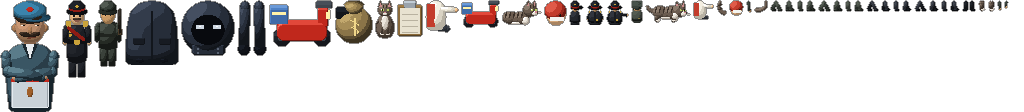
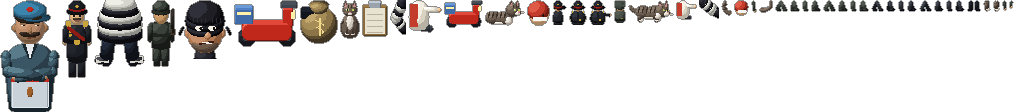
Hırsız yeniden modellendi: bere, göz maskesi, çizgili kazak, çuval
Eskisi yüzü kara boşluk, iki parlak gözlü kukuletalı bir yumruydu (hayalet
gibi). Şimdi örgü bere, göz delikli siyah maske + yana bakan gözler, sakal
gölgesi + sırıtış, siyah-beyaz çizgili kazak, koyu pantolon, sinsi adım,
eldivenler; sağ el çuvalın ağzını tutar. Parça adları/çapalar aynı.

Changed region(s): [[0.0938, 0.0, 1.0, 0.6161]]

diff --git a/blender/models/olay_hd.py b/blender/models/olay_hd.py
@@ -167,40 +167,97 @@ def pelerin_malz():
     return I.cel("Pelerin", [hexmul(C0, 0.8), C0, C1, C2, C3], [0, .18, .4, .7, .92], noise=0.06, noise_scale=10)
 
 
+# BIRLESIK (4. tur, kullanici: "hirsiz modellemesi cok zayif"). Eskiden
+# yuzu kara bosluk, iki parlak gozlu kukuletali bir yumru (hayalet gibi).
+# Simdi klasik hirsiz: siyah orgu bere, gozleri acik siyah maske, yana bakan
+# kurnaz gozler, sakal golgesi + sirit, siyah-beyaz cizgili kazak, koyu
+# pantolon, sinsi adim, eldivenler; sag el cuvalin agzini tutar.
+# Parca adlari ve capalar ayni (oyun kodu degismez).
+HT_TEN = "#c8906a"
+
+
+def _cizgili(i):
+    return I.cel("Kazak%d" % (i % 2), ["#0c0c10", "#16161c", "#22222a", "#34343e"] if i % 2 == 0 else
+                 ["#8e8e88", "#b8b8b0", "#d6d6ce", "#eeeee6"], [0, .3, .6, .88])
+
+
 def hirsiz_govde():
-    Mp = pelerin_malz()
-    T.torna("pelerin", [(13.2, 0), (13.0, 8), (12.2, 18), (10.8, 24), (7.0, 28), (2.0, 29.6)], 0.5, 1.0, 1.0, 0.45, Mp, K, seg=28)
-    on_levha([(0.1, -24), (0.9, -24), (0.9, 0), (0.1, 0)], -5.4, mat_duz("#12161c"))
-    for sx in (-6.0, 7.0):                              # cep kapaklari
-        kutu(sx - 3, sx + 3, -10.5, -7.0, -5.8, -5.0, c3(C0, f=(0.7, 0.9, 1.0, 1.4)), bevel=0.4)
-    # ayaklar
-    for sx in (-5.0, 6.0):
-        elipsoid(sx, 0.2, 3.0, 1.4, 2.0, -3.0, c3("#0f1218", f=(0.8, 1.0, 1.0, 1.8)), seg=10, ring=6)
+    # pantolon + bacaklar (sinsi adim: sol ayak onde)
+    Mp = I.cel("Pantolon", ["#0e1118", "#161b26", "#212838", "#2e3850"], [0, .3, .6, .88])
+    for (x0, x1, y) in ((-4.8, -6.4, -1.2), (5.2, 7.0, 0.6)):
+        uzuv((x0, -13.0), (x1, -1.6), 3.3, y, Mp)
+    kutu(-9.0, 10.0, -15.0, -11.0, -3.8, 3.8, Mp, bevel=1.2)
+    # spor ayakkabi
+    Ma = I.cel("Ayakkabi", ["#0a0a0c", "#18181c", "#2a2a30", "#4a4a52"], [0, .3, .6, .88])
+    for (x, y, yon) in ((-7.4, -2.6, -1), (7.8, -0.4, 1)):
+        e = elipsoid(x + yon * 1.0, -0.8, 3.6, 1.6, 2.6, y, Ma, seg=12, ring=8)
+        kutu(x - 3.2 + yon * 1.0, x + 3.4 + yon * 1.0, -0.4, 0.4, y - 2.4, y + 2.4, mat_duz("#d8d8d0"))
+    # cizgili kazak: 6 serit, omuza dogru daralan govde
+    for i in range(6):
+        gy0 = -13.0 - i * 3.0
+        r0 = 10.6 - max(0, i - 3) * 1.2
+        r1 = 10.6 - max(0, i - 2) * 1.2
+        T.torna("kazak%d" % i, [(r0, 0), (r1 + (0.3 if i < 4 else -0.4), 3.0)], 0.5, gy0, 0.2, 0.62, _cizgili(i), K, seg=28)
+    # bel lastigi
+    T.torna("lastik", [(10.9, 0), (10.9, 1.4)], 0.5, -12.6, 0.2, 0.63, mat_duz("#0c0c10"), K, seg=28)
 
 
 def hirsiz_bas():
     hy = -42.0
-    Mp = pelerin_malz()
-    elipsoid(0.5, hy + 1.5, 13.2, 12.6, 9.0, 1.0, Mp, seg=24, ring=16)
-    # yuz boslugu
-    elipsoid(0.5, hy + 2.5, 8.4, 7.4, 3.5, -6.0, mat_duz("#080a0e"), seg=20, ring=12)
-    # gozler (parlayan)
-    for ex in (-3.5, 5.0):
-        kutu(ex - 1.8, ex + 2.0, hy + 0.2, hy + 2.0, -9.7, -9.5, mat_duz("#cfd8e2"))
-        kutu(ex - 0.6, ex + 0.6, hy + 0.3, hy + 1.1, -9.8, -9.7, mat_duz("#ffffff"))
-    # yaka + dugmeler
-    kutu(-7.5, 9.0, hy + 9.5, hy + 15.5, -6.0, 2.0, Mp, bevel=1.2)
-    for sx in (-4.5, 5.5):
-        for gy in (hy + 12, hy + 14):
-            elipsoid(sx, gy, 0.6, 0.6, 0.3, -6.3, mat_duz("#5a6474"), seg=6, ring=4)
+    Mt = I.cel("HTen", ["#8a5a3a", "#b07a52", "#c8906a", "#e0ae88"], [0, .3, .6, .88])
+    # boyun + balikci yaka (kazak)
+    T.torna("yaka", [(5.4, 0), (4.8, 3.4)], 0.5, hy + 16.4, 0.0, 0.8, _cizgili(0), K, seg=20)
+    # kafa ve cene (sakal golgesi)
+    e = I.elipsoid("kafa", 0.5, hy + 3.0, 8.6, 9.4, 7.8, 0.0, Mt, seg=26, ring=18)
+    e.location = (0.5, 0.0, ez(hy + 3.0, 0.0, K))
+    sg = I.elipsoid("sakal", 0.5, hy + 8.2, 7.0, 3.8, 5.4, -3.0, I.cel("Sakal", ["#4a3a30", "#5a483c", "#6e5a4a", "#806a58"], [0, .3, .6, .88]), seg=20, ring=10)
+    sg.location = (0.5, -3.0, ez(hy + 8.2, -3.0, K))
+    for sx in (-8.0, 9.0):
+        elipsoid(sx, hy + 3.0, 1.6, 2.4, 1.2, 0.4, Mt, seg=10, ring=6)
+    burun = I.elipsoid("burun", 1.8, hy + 4.4, 2.0, 1.7, 1.8, -7.2, Mt, seg=14, ring=10)
+    burun.location = (1.8, -7.2, ez(hy + 4.4, -7.2, K))
+    # sirit (yan, sinsi)
+    uzuv((-2.2, hy + 8.4), (4.6, hy + 7.4), 0.45, -7.8, mat_duz("#3a1a14"))
+    kutu(-0.8, 3.8, hy + 7.6, hy + 8.3, -8.2, -8.0, mat_duz("#f4f0e6"))
+    # siyah maske (goz bandi) + goz delikleri + yana bakan gozler
+    Mm = I.cel("Maske", ["#050506", "#0e0e12", "#1a1a20", "#2e2e36"], [0, .3, .6, .88])
+    m = I.elipsoid("maske", 0.5, hy + 0.6, 9.2, 2.6, 8.0, 0.0, Mm, seg=26, ring=10)
+    m.location = (0.5, -0.4, ez(hy + 0.6, -0.4, K))
+    for ex in (-2.6, 4.0):
+        elipsoid(ex, hy + 0.6, 1.9, 1.3, 0.6, -8.2, mat_duz("#f4f0e6"), seg=12, ring=8)
+        elipsoid(ex + 0.9, hy + 0.7, 0.8, 0.9, 0.4, -8.6, mat_duz("#141010"), seg=8, ring=5)
+    for sx in (-10.6, 11.6):   # maske baglari
+        uzuv((sx, hy + 0.4), (sx + (-1.6 if sx < 0 else 1.6), hy + 3.6), 0.5, 1.5, Mm)
+    # orgu bere: kubbe + katlanmis kenar (ribana)
+    Mb = I.cel("Bere", ["#08080a", "#121216", "#1e1e24", "#30303a"], [0, .3, .6, .88], noise=0.1, noise_scale=18)
+    T.torna("bere", [(9.1, 0), (8.9, 2.6), (7.6, 5.2), (4.6, 7.0), (0.6, 7.6)], 0.5, hy - 4.2, 0.4, 0.86, Mb, K, seg=28)
+    T.torna("bere_kenar", [(9.7, 0), (9.8, 1.4), (9.5, 2.8)], 0.5, hy - 1.8, 0.4, 0.87, Mb, K, seg=28)
+    for q in range(9):
+        x = -7.0 + q * 1.9
+        uzuv((x, hy - 4.4), (x, hy - 2.0), 0.18, -8.6 + abs(x - 0.5) * 0.45, mat_duz("#2a2a32"))
 
 
 def hirsiz_kol(sol):
     def fn():
-        Mp = pelerin_malz()
-        x = -14.0 if sol else 13.5
-        uzuv((x, -22.5), (x - (0.5 if sol else -0.5), -2.5), 2.6, -1.0 if sol else -2.0, Mp)
-        elipsoid(x - (0.5 if sol else -0.5), -1.5, 3.0, 3.0, 2.5, -2.5, c3("#0f1218", f=(0.8, 1.0, 1.0, 1.6)), seg=10, ring=6)
+        Mg = I.cel("Eldiven", ["#050506", "#101014", "#1c1c22", "#303038"], [0, .3, .6, .88])
+        if sol:
+            # sol kol: dirsekten bukuk, el onde (parmak ucunda yuruyus)
+            omuz, dirsek, el = (-10.5, -26.0), (-14.0, -18.0), (-10.0, -12.5)
+            y = -1.0
+        else:
+            # sag kol: cuvalin agzini tutmaya uzanir (cuval x+20, y-21)
+            omuz, dirsek, el = (11.0, -26.0), (16.0, -22.0), (18.6, -20.5)
+            y = -2.0
+        for q, (a, b) in enumerate(((omuz, dirsek), (dirsek, el))):
+            n = 4
+            for k in range(n):
+                u0, u1 = k / float(n), (k + 1) / float(n)
+                p0 = (a[0] + (b[0] - a[0]) * u0, a[1] + (b[1] - a[1]) * u0)
+                p1 = (a[0] + (b[0] - a[0]) * u1, a[1] + (b[1] - a[1]) * u1)
+                uzuv(p0, p1, 2.5 - q * 0.3, y, _cizgili(k + q))
+        elipsoid(el[0], el[1], 2.4, 2.2, 2.0, y - 0.8, Mg, seg=12, ring=8)
+        for f in range(3):
+            elipsoid(el[0] + (1.4 if not sol else -1.2), el[1] - 1.2 + f * 1.1, 0.9, 0.6, 0.7, y - 1.4, Mg, seg=8, ring=5)
     return fn
 
 
